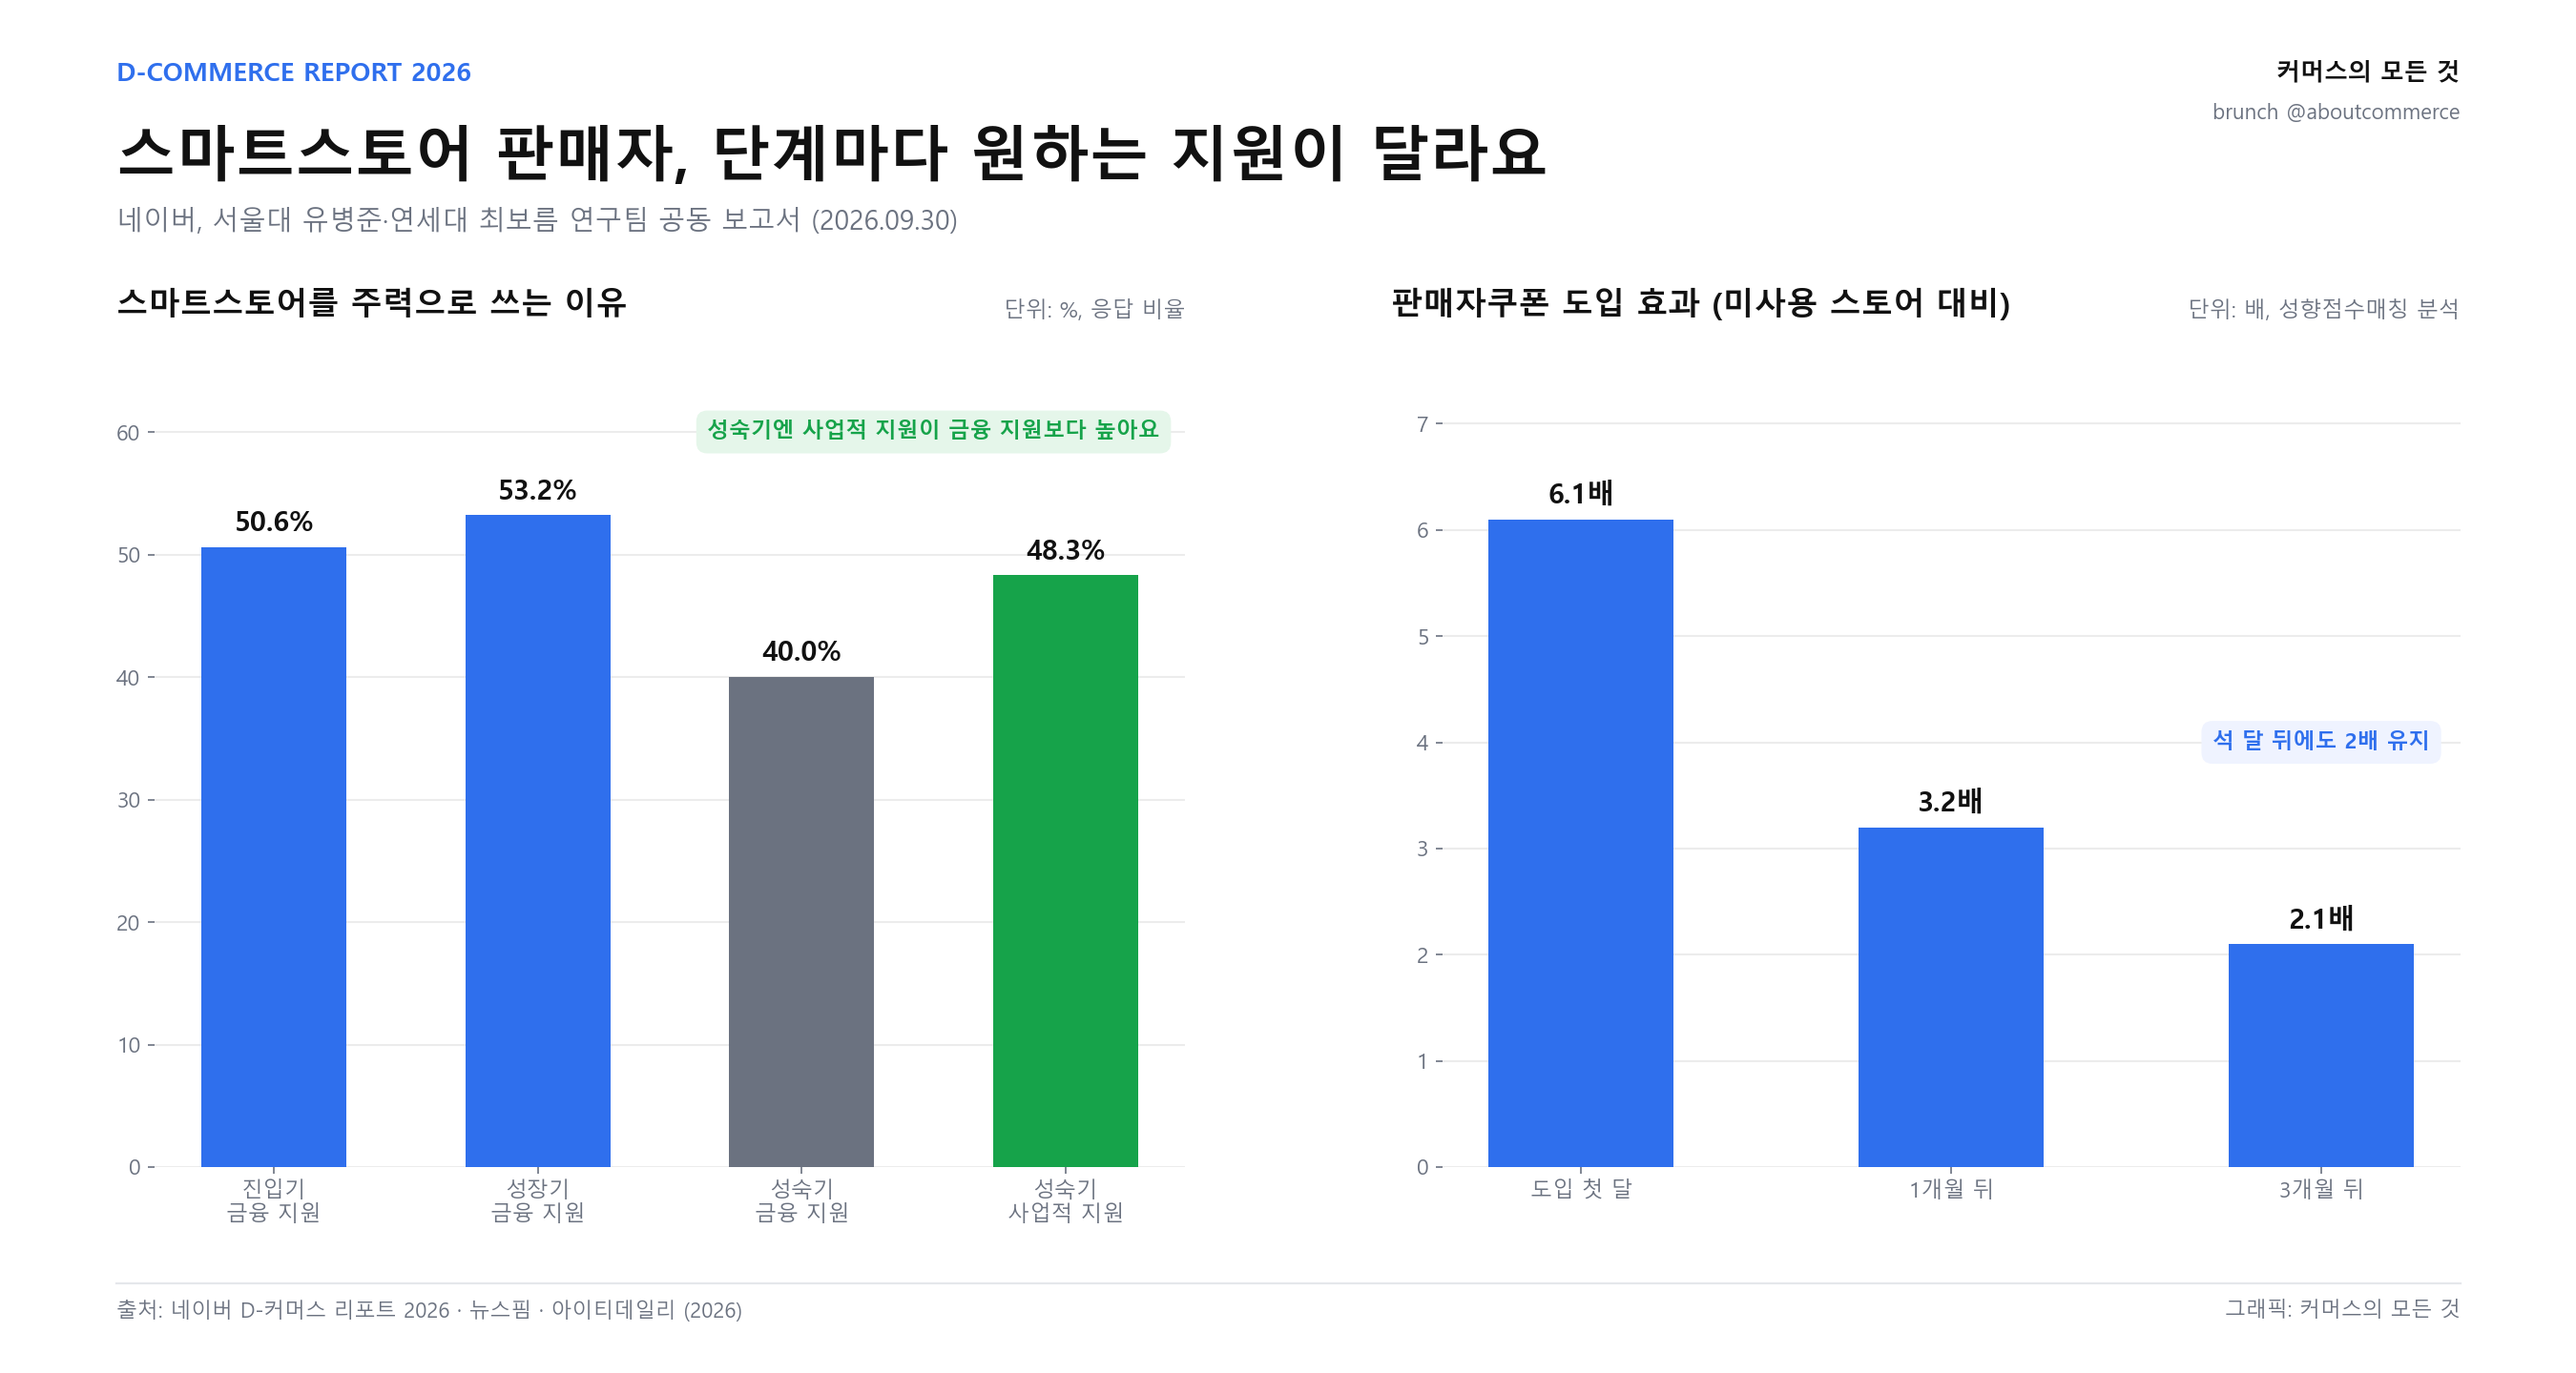
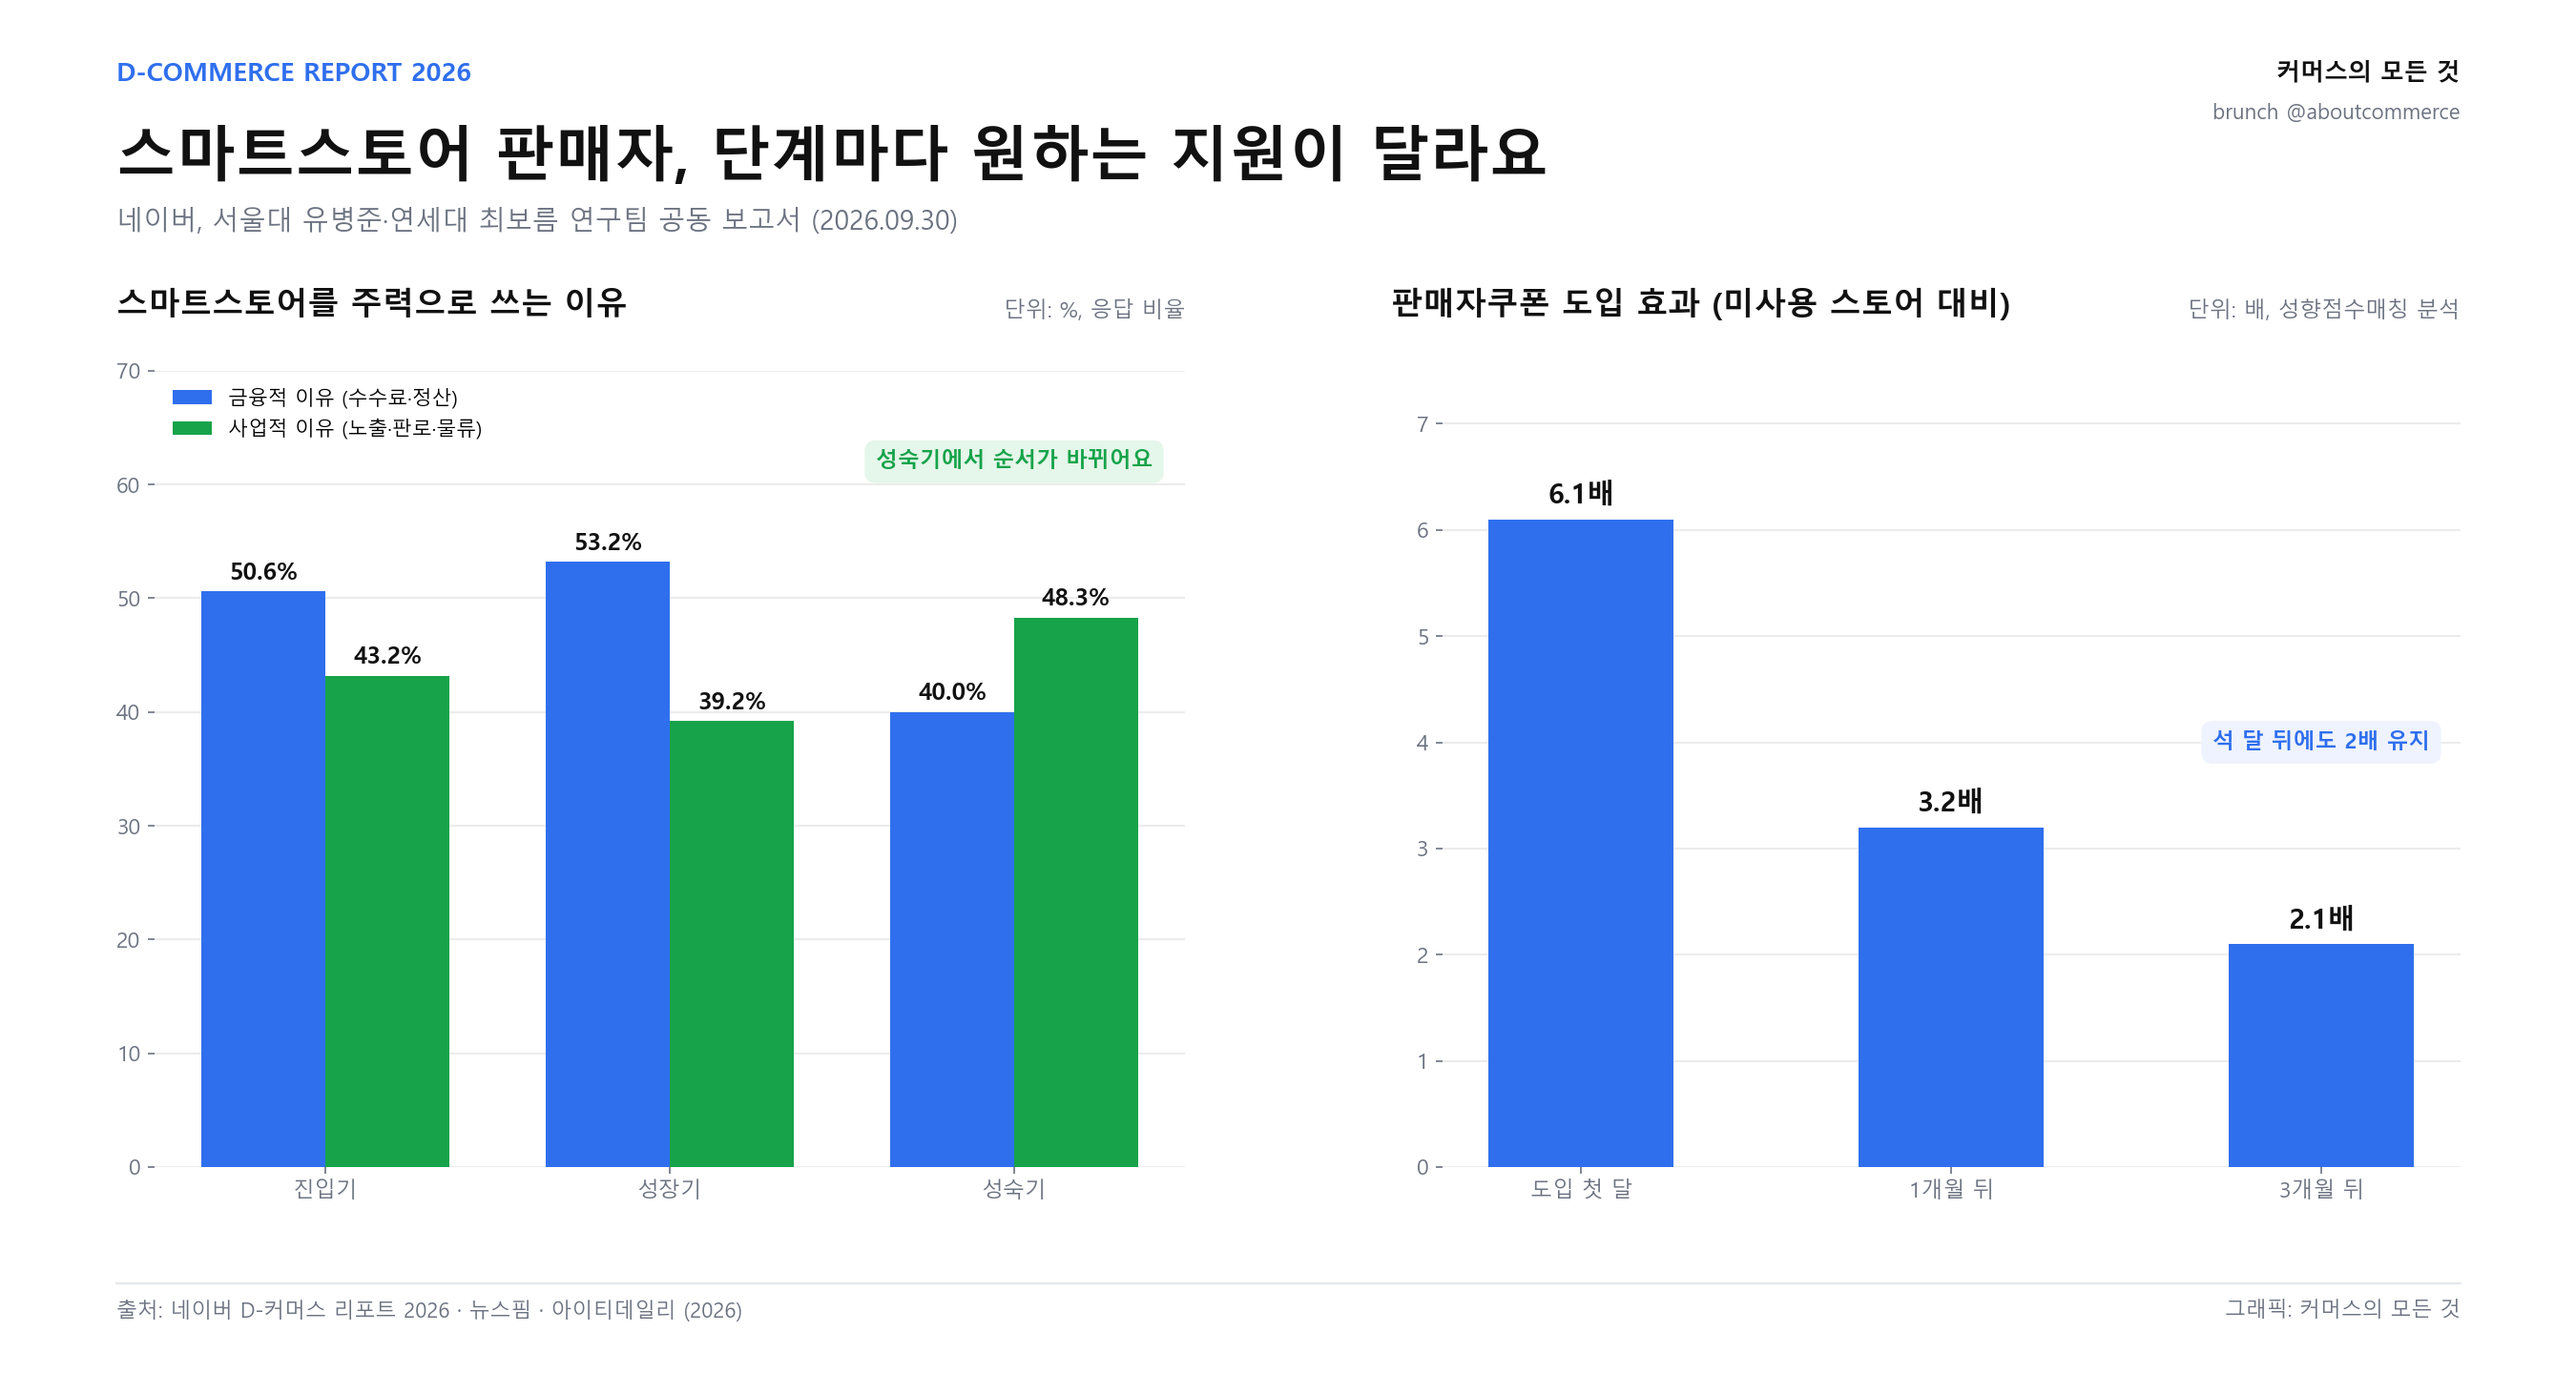
fix: Vol.133 최종본 확정 (제목 변경, 단계 설문 수치 보완, 스타트제로수수료 삭제, 수수료 출처 정정)
- 제목: 셀러들이 네이버 스토어를 선택하는 이유
- 판매자 설문(568명) 단계별 금융적·사업적 이유 수치 통일, 인포그래픽 6막대로 재생성
- 2025년 조사(76%, 65.1%) 출처 구분, 삼성증권 전망 "3000억원가량"으로 정정
- 출처: 헤럴드경제 날짜 2025.06.01, 한국경제 → 아시아경제

Changed region(s): [[0.0622, 0.2812, 0.4667, 0.9062], [0.0622, 0.2812, 0.1867, 0.3125], [0.4044, 0.875, 0.4356, 0.9062]]

diff --git a/output/네이버-스마트스토어-10년-판매자지원_20261003/generate_infographic.py b/output/네이버-스마트스토어-10년-판매자지원_20261003/generate_infographic.py
@@ -11,17 +11,23 @@ fig = new_branded_figure(
 # 왼쪽: 스마트스토어 주력 운영 이유 (단계별)
 ax1 = fig.add_axes([0.06, 0.15, 0.40, 0.58])
 panel_header(fig, 0.045, 0.46, 0.765, '스마트스토어를 주력으로 쓰는 이유', '단위: %, 응답 비율')
-labels = ['진입기\n금융 지원', '성장기\n금융 지원', '성숙기\n금융 지원', '성숙기\n사업적 지원']
-vals = [50.6, 53.2, 40.0, 48.3]
-colors = [COLORS['accent'], COLORS['accent'], COLORS['sub'], COLORS['positive_bar']]
-bars = ax1.bar(labels, vals, color=colors, width=0.55, zorder=3)
+stages = ['진입기', '성장기', '성숙기']
+fin = [50.6, 53.2, 40.0]
+biz = [43.2, 39.2, 48.3]
+x = [0, 1, 2]
+w = 0.36
+bars_f = ax1.bar([i - w / 2 for i in x], fin, width=w, color=COLORS['accent'], zorder=3, label='금융적 이유 (수수료·정산)')
+bars_b = ax1.bar([i + w / 2 for i in x], biz, width=w, color=COLORS['positive_bar'], zorder=3, label='사업적 이유 (노출·판로·물류)')
+ax1.set_xticks(x)
+ax1.set_xticklabels(stages)
 style_axes(ax1)
-ax1.set_ylim(0, 65)
-for bar, val in zip(bars, vals):
+ax1.set_ylim(0, 70)
+for bar, val in list(zip(bars_f, fin)) + list(zip(bars_b, biz)):
     ax1.annotate(f'{val:.1f}%', xy=(bar.get_x() + bar.get_width() / 2, val),
-                 xytext=(0, 8), textcoords='offset points',
-                 ha='center', fontsize=14, fontweight='bold', color=COLORS['text'])
-add_badge(ax1, 2.5, 60, '성숙기엔 사업적 지원이 금융 지원보다 높아요', kind='positive', fontsize=11)
+                 xytext=(0, 6), textcoords='offset points',
+                 ha='center', fontsize=12, fontweight='bold', color=COLORS['text'])
+ax1.legend(loc='upper left', frameon=False, fontsize=10)
+add_badge(ax1, 2, 62, '성숙기에서 순서가 바뀌어요', kind='positive', fontsize=11)
 
 # 오른쪽: 판매자쿠폰 도입 스토어의 매출 효과 (미사용 스토어 대비 배수)
 ax2 = fig.add_axes([0.56, 0.15, 0.395, 0.58])
